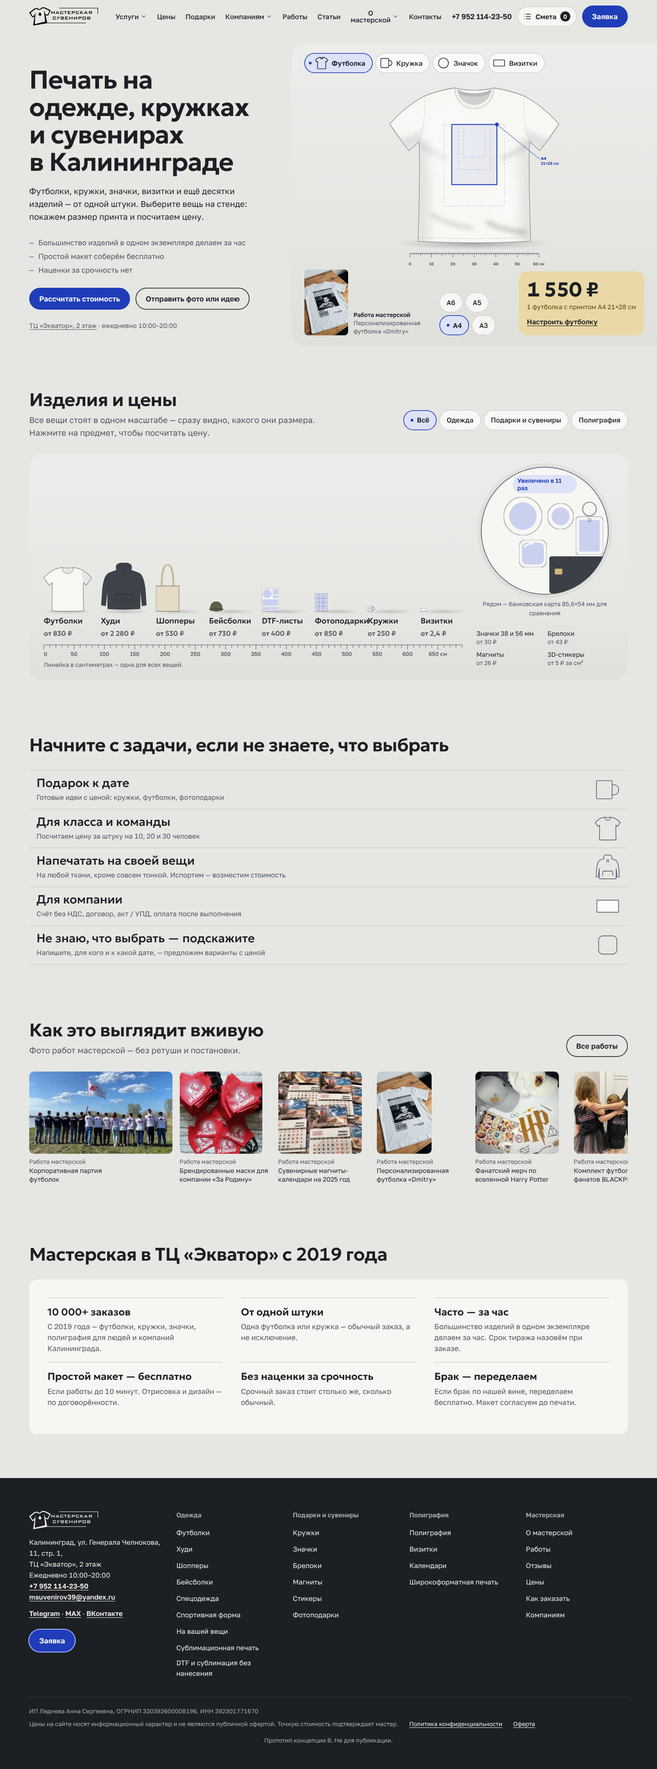
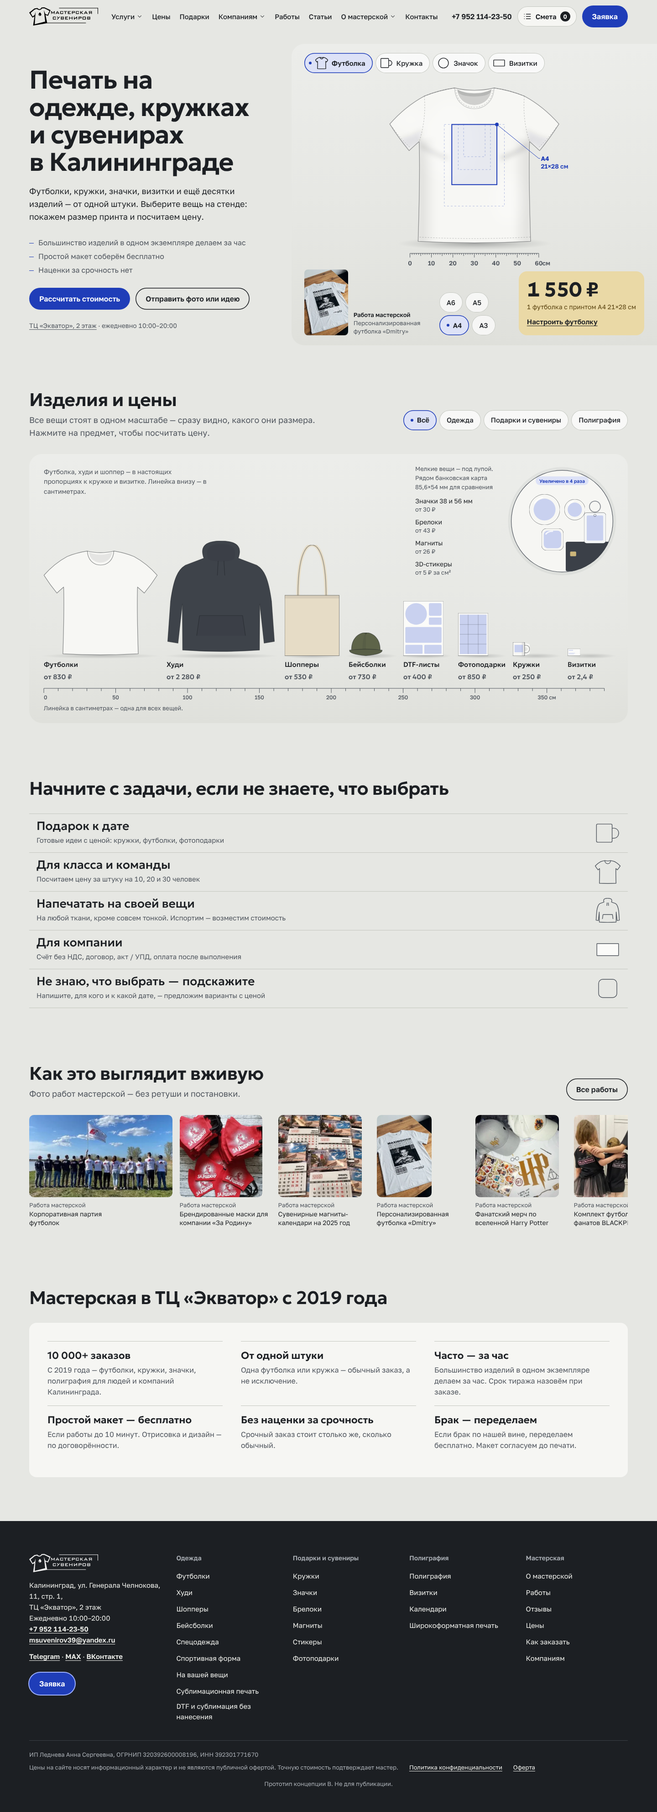
Прототип концепции B готов (до независимой проверки)
Claude-Session: https://claude.ai/code/session_011aCLNCiHhKEuiwSHLS8JMG

diff --git a/concepts/concept-b-object-lab/prototype/index.html b/concepts/concept-b-object-lab/prototype/index.html
@@ -1,8 +1,6 @@
 <!doctype html>
 <html lang="ru"><head><meta charset="utf-8"><meta name="viewport" content="width=device-width, initial-scale=1">
 <title>Печать на одежде, кружках и сувенирах в Калининграде — Мастерская сувениров</title><meta name="description" content="Печать на футболках, кружках, значках и полиграфии от 1 штуки. ТЦ «Экватор», ежедневно 10:00–20:00."><meta name="robots" content="noindex">
-<link rel="preload" href="fonts/golos-text-cyrillic-wght-normal.woff2" as="font" type="font/woff2" crossorigin>
-<link rel="preload" href="fonts/geologica-cyrillic-wght-normal.woff2" as="font" type="font/woff2" crossorigin>
 <link rel="stylesheet" href="styles.css"></head>
 <body>
 <a class="skip" href="#main">К содержимому</a>
@@ -42,7 +40,7 @@
 <section class="hero"><div class="wrap hero-grid">
   <div class="hero-text">
     <h1>Печать на одежде, кружках и сувенирах в Калининграде</h1>
-    <p class="lead">Футболки, кружки, значки, визитки и ещё десятки изделий — от одной штуки. Выберите вещь на стенде: покажем размер принта и посчитаем цену.</p>
+    <p class="lead">Футболки, кружки, значки, визитки и ещё десятки изделий — от одной штуки.<span class="m-hide"> Выберите вещь на стенде: покажем размер принта и посчитаем цену.</span></p>
     <ul class="hero-facts"><li>Большинство изделий в одном экземпляре делаем за час</li><li>Простой макет соберём бесплатно</li><li>Наценки за срочность нет</li></ul>
     <div class="hero-actions"><a class="btn btn-main hero-cta" id="heroCta" href="futbolki.html#calc">Рассчитать стоимость</a><button class="btn btn-line" type="button" data-order>Отправить фото или идею</button></div>
     <p class="hero-where"><a href="#contacts">ТЦ «Экватор», 2 этаж</a> · ежедневно 10:00–20:00</p>
@@ -74,6 +72,7 @@
       <button class="pill" type="button" data-group="all" aria-pressed="true">Всё</button><button class="pill" type="button" data-group="odezhda" aria-pressed="false">Одежда</button>
       <button class="pill" type="button" data-group="gifts" aria-pressed="false">Подарки и сувениры</button><button class="pill" type="button" data-group="poly" aria-pressed="false">Полиграфия</button></div></div>
   <div class="rk">
+    <p class="rk-caption">Футболка, худи и шоппер — в настоящих пропорциях к кружке и визитке. Линейка внизу — в сантиметрах.</p>
     <div class="rk-body">
       <div class="rk-scroll">
         <div class="rk-row" id="rkRow"><a class="rk-item" href="futbolki.html" data-model="tee" data-w="790" data-h="738" data-col="#F7F7F4" data-g="odezhda"><span class="rk-stage"><span class="rk-pic"></span></span><span class="rk-name">Футболки</span><span class="rk-from" data-from="textile/tshirt-unisex"></span></a><a class="rk-item" href="#" data-proto data-model="hoodie" data-w="760" data-h="800" data-col="#3E434A" data-g="odezhda"><span class="rk-stage"><span class="rk-pic"></span></span><span class="rk-name">Худи</span><span class="rk-from" data-from="textile/hoodie"></span></a><a class="rk-item" href="#" data-proto data-model="shopper" data-w="380" data-h="770" data-col="#E6DCC6" data-g="odezhda"><span class="rk-stage"><span class="rk-pic"></span></span><span class="rk-name">Шопперы</span><span class="rk-from" data-from="textile/shopper"></span></a><a class="rk-item" href="#" data-proto data-model="cap" data-w="240" data-h="160" data-col="#5E6449" data-g="odezhda"><span class="rk-stage"><span class="rk-pic"></span></span><span class="rk-name">Бейсболки</span><span class="rk-from" data-from="textile/cap"></span></a><a class="rk-item" href="#" data-proto data-model="sheet" data-w="280" data-h="380" data-col="#FBFBF9" data-g="odezhda"><span class="rk-stage"><span class="rk-pic"></span></span><span class="rk-name">DTF-листы</span><span class="rk-from" data-from="transfers/dtf-sheet"></span></a><a class="rk-item" href="#" data-proto data-model="puzzle" data-w="210" data-h="297" data-col="#F7F7F4" data-g="gifts"><span class="rk-stage"><span class="rk-pic"></span></span><span class="rk-name">Фотоподарки</span><span class="rk-from" data-from="gifts/puzzle-a4"></span></a><a class="rk-item" href="#" data-proto data-model="mug" data-w="118" data-h="95" data-col="#F7F7F4" data-g="gifts"><span class="rk-stage"><span class="rk-pic"></span></span><span class="rk-name">Кружки</span><span class="rk-from" data-from="mugs/mug"></span></a><a class="rk-item" href="#" data-proto data-model="card" data-w="90" data-h="50" data-col="#FBFBF9" data-g="poly"><span class="rk-stage"><span class="rk-pic"></span></span><span class="rk-name">Визитки</span><span class="rk-from" data-from="cards/business-cards"></span></a></div>
@@ -85,16 +84,16 @@
           <svg class="card" viewBox="0 0 85.6 54" aria-hidden="true"><rect class="m-card" width="85.6" height="54" rx="3.2"/><rect x="8" y="18" width="11" height="8.5" rx="1.5" class="m-card-chip"/></svg>
           <a class="loupe-item" data-g="gifts" href="#" data-proto style="left:50px;top:66px;width:84px;height:84px" data-model="badge56" data-col="#F7F7F4" aria-label="Значки 56 мм"></a>
           <a class="loupe-item" data-g="gifts" href="#" data-proto style="left:146px;top:80px;width:57px;height:57px" data-model="badge38" data-col="#F7F7F4" aria-label="Значки 38 мм"></a>
-          <a class="loupe-item" data-g="gifts" href="#" data-proto style="left:208px;top:76px;width:60px;height:117px" data-model="keychain" data-col="#F3F5F6" aria-label="Брелоки 40×56 мм"></a>
+          <a class="loupe-item" data-g="gifts" href="#" data-proto style="left:200px;top:84px;width:60px;height:117px" data-model="keychain" data-col="#F3F5F6" aria-label="Брелоки 40×56 мм"></a>
           <a class="loupe-item" data-g="gifts" href="#" data-proto style="left:84px;top:160px;width:60px;height:60px" data-model="sticker" data-col="#F7F7F4" aria-label="3D-стикеры"></a>
         </div>
-        <p class="loupe-cap">Рядом — банковская карта 85,6×54 мм для сравнения</p>
+        <div class="loupe-side"><p class="loupe-cap" style="margin:0">Мелкие вещи — под лупой. Рядом банковская карта 85,6×54 мм для сравнения</p>
         <ul class="loupe-list">
           <li><a href="#" data-proto>Значки 38 и 56 мм<span data-from="badges/badge-roll"></span></a></li>
           <li><a href="#" data-proto>Брелоки<span data-from="keychains/keychain-acrylic"></span></a></li>
           <li><a href="#" data-proto>Магниты<span data-from="magnets/magnet-vinyl"></span></a></li>
           <li><a href="#" data-proto>3D-стикеры<span data-from="stickers/sticker-3d"></span></a></li>
-        </ul>
+        </ul></div>
       </div>
     </div>
   </div>

diff --git a/concepts/concept-b-object-lab/prototype/app.js b/concepts/concept-b-object-lab/prototype/app.js
@@ -222,8 +222,8 @@
         <p class="muted" style="margin-top:16px">Что дальше:</p>
         <ol><li>Мастер посмотрит заявку и свяжется с вами: ${esc(via === 'Звонок' ? 'позвонит' : 'напишет в ' + via)}.</li>
         <li>Согласуем макет до печати — без согласования не печатаем.</li>
-        <li>Заберёте заказ в ТЦ «Экватор», 2 этаж. Работаем ежедневно, 10:00–20:00.</li></ol>
-        <p class="small muted">Если нужно быстрее — позвоните: <a href="tel:+79521142350">+7 952 114-23-50</a>.</p>
+        <li>Заберёте заказ в ТЦ «Экватор», 2 этаж. Работаем ежедневно, <span class="nb">10:00–20:00</span>.</li></ol>
+        <p class="small muted">Если нужно быстрее — позвоните: <a class="nb" href="tel:+79521142350">+7 952 114-23-50</a>.</p>
         <button class="btn btn-main" type="button" data-close-form2>Готово</button>`;
       $('#orderForm').hidden = true; done.hidden = false;
       $$('[data-close-form2]', done).forEach((b) => b.addEventListener('click', () => dl.close()));
@@ -264,9 +264,9 @@
     for (let mm = 0, i = 0; x0 + mm <= x1 + 0.01; mm += 10, i++) {
       const big = i % every === 0, mid = i % 5 === 0;
       s += `<line x1="${x0 + mm}" y1="${y}" x2="${x0 + mm}" y2="${y + (big ? tick * 1.6 : mid ? tick : tick * 0.55)}"/>`;
-      if (big) s += `<text x="${x0 + mm}" y="${y + tick * 1.6 + (opt.fsu || 20)}" text-anchor="middle">${i}${x0 + mm + 10 * every > x1 ? ' см' : ''}</text>`;
+      if (big) s += `<text x="${x0 + mm}" y="${y + tick * 1.6 + (opt.fsu || 20)}" text-anchor="middle">${i}</text>`;
     }
-    return s + '</g>';
+    return s + `<text x="${x1 + tick * 1.4}" y="${y + tick * 1.6 + (opt.fsu || 20)}" text-anchor="start">см</text></g>`;
   }
   // Полный стенд: state = {view, color, own, prints:[{place, fmt}], active, qty, file}
   function teeStandSVG(st, opts = {}) {
@@ -317,8 +317,9 @@
     const r = teeStandSVG(st, { noLabel: true, noRuler: true, ghosts: false });
     return `<svg class="stand-svg ${r.cls}" style="${r.style}" viewBox="-420 -30 840 780" aria-hidden="true" focusable="false">${r.inner}</svg>`;
   }
-  function fitText(svg, vbW) {
-    const k = svg.getBoundingClientRect().width / vbW || 0.6;
+  function fitText(svg) {
+    const vb = svg.viewBox.baseVal; const r = svg.getBoundingClientRect();
+    const k = Math.min(r.width / vb.width, r.height / vb.height) || 0.6;
     svg.style.setProperty('--fs', (13.5 / k).toFixed(1) + 'px');
     svg.style.setProperty('--fs2', (15 / k).toFixed(1) + 'px');
     return k;
@@ -385,11 +386,11 @@
     const items = $$('.rk-item', row);
     items.forEach((a) => { const key = a.dataset.model; $('.rk-pic', a).innerHTML = modelSVG(key, { col: a.dataset.col, pad: 0 }); });
     $$('.loupe [data-model]').forEach((el) => { el.innerHTML = modelSVG(el.dataset.model, { col: el.dataset.col, pad: 0 }); });
-    const MIN = 96, GAP = 20;
+    const MIN = 100, GAP = 20;
     function layout() {
       const narrow = window.innerWidth <= 760;
       const W = row.clientWidth - (narrow ? 0 : 0);
-      let k = narrow ? 0.26 : 0.4;
+      let k = narrow ? 0.2 : 0.4;
       if (!narrow) {
         for (let it = 0; it < 30; it++) { // подбираем масштаб, чтобы ряд занял ширину
           const sum = items.reduce((s, a) => s + Math.max(+a.dataset.w * k, MIN), 0) + GAP * (items.length - 1);
@@ -408,7 +409,7 @@
       let s = ''; for (let i = 0; i <= n; i++) { const x = i * tenCm; s += `<line x1="${x}" y1="0" x2="${x}" y2="${i % 5 === 0 ? 10 : 6}"/>` + (i % 5 === 0 ? `<text x="${x}" y="24" text-anchor="${i ? 'middle' : 'start'}">${i * 10}${i === Math.floor(n / 5) * 5 ? ' см' : ''}</text>` : ''); }
       ruler.setAttribute('width', row.scrollWidth); ruler.innerHTML = `<line x1="0" y1="0" x2="${n * tenCm}" y2="0"/>` + s;
       $('#rkScale').textContent = 'Линейка в сантиметрах — одна для всех вещей.';
-      const lx = $('#loupeX'); if (lx) lx.textContent = 'Увеличено в ' + Math.round(1.5 / k) + ' раз';
+      const lx = $('#loupeX'); const b56 = $('.loupe-item[data-model="badge56"]'); if (lx && b56) { const z = b56.getBoundingClientRect().width / 56; const n = Math.round(z / k); lx.textContent = 'Увеличено в ' + n + ' ' + plural(n, 'раз', 'раза', 'раз'); }
     }
     layout(); window.addEventListener('resize', layout);
     $$('[data-group]').forEach((b) => b.addEventListener('click', () => {
@@ -485,8 +486,8 @@
       $('#addPrint').hidden = st.prints.length >= 4;
       $$('.print-row', box).forEach((row) => {
         const i = +row.dataset.i;
-        $$('[data-fmt]', row).forEach((b) => b.addEventListener('click', () => { st.prints[i].fmt = b.dataset.fmt; st.active = i; ensureView(i); update(); }));
-        $('.place-sel', row).addEventListener('change', (e) => { st.prints[i].place = e.target.value; st.active = i; ensureView(i); update(); });
+        $$('[data-fmt]', row).forEach((b) => b.addEventListener('click', () => { st.prints[i].fmt = b.dataset.fmt; st.active = i; ensureView(i); renderPrints(); update(); const nb = $(`.print-row[data-i="${i}"] [data-fmt="${b.dataset.fmt}"]`); nb && nb.focus(); }));
+        $('.place-sel', row).addEventListener('change', (e) => { st.prints[i].place = e.target.value; st.active = i; ensureView(i); renderPrints(); update(); });
         row.addEventListener('focusin', () => { if (st.active !== i) { st.active = i; $$('.print-row', box).forEach((r) => r.classList.toggle('act', +r.dataset.i === i)); ensureView(i, true); } });
         const rm = $('[data-rm]', row); rm && rm.addEventListener('click', () => { st.prints.splice(i, 1); st.active = Math.min(st.active, st.prints.length - 1); renderPrints(); update(); $('#addPrint').focus(); });
       });

diff --git a/concepts/concept-b-object-lab/prototype/styles.css b/concepts/concept-b-object-lab/prototype/styles.css
@@ -92,12 +92,12 @@ p { margin: 0 0 12px; }
 /* ---------- Шапка ---------- */
 .hdr { position: sticky; top: 0; z-index: 40; background: var(--stand); transition: box-shadow .2s, transform .25s var(--ease); }
 .hdr.scrolled { box-shadow: 0 1px 0 var(--line); }
-.hdr-in { display: flex; align-items: center; gap: 28px; height: 72px; }
+.hdr-in { display: flex; align-items: center; gap: 20px; height: 72px; }
 .logo { display: block; color: var(--ink); flex: none; }
 .logo img { height: 40px; width: auto; }
 .nav { display: flex; align-items: center; gap: 2px; margin: 0; padding: 0; list-style: none; flex: 1; min-width: 0; }
 .nav > li { position: relative; }
-.nav a.top, .nav button.top { display: inline-flex; align-items: center; gap: 4px; height: 44px; padding: 0 10px; border: 0; background: none;
+.nav a.top, .nav button.top { white-space: nowrap; display: inline-flex; align-items: center; gap: 4px; height: 44px; padding: 0 10px; border: 0; background: none;
   color: var(--ink); text-decoration: none; font: 500 15px/1 var(--text); border-radius: 999px; }
 .nav a.top:hover, .nav button.top:hover, .nav .open > button.top { background: rgba(28,31,35,.06); }
 .nav .caret { width: 14px; height: 14px; transition: transform .2s; }
@@ -594,3 +594,46 @@ fieldset.f-row { border: 0; padding: 0; margin: 0 0 16px; }
 .pult { margin-top: 4px; }
 @media (max-width: 1119px) { .p-head, .pstand, .pult-wrap { grid-column: 1; grid-row: auto; } .p-head { padding-bottom: 12px; } }
 @media (max-width: 760px) { .hstand { order: 2; } .p-head .lead { font-size: 16px; line-height: 24px; margin-top: 10px; } .p-facts { display: none; } .pstand-top .note { display: none; } }
+
+.nav a.top, .nav button.top { padding: 0 9px; }
+@media (max-width: 760px) { .m-hide { display: none; } .hsvg { height: clamp(170px, 22svh, 220px); } .htabs .pill { min-height: 48px; } .rk-groups { max-width: 100%; } }
+/* ценник на странице изделия: слева цена, справа кнопки */
+.ptag { width: 470px; display: grid; grid-template-columns: minmax(0, 1fr) 150px; gap: 0 16px; align-items: start; }
+.ptag > .price-xl, .ptag > .per, .ptag > .tag-break, .ptag > .tag-next { grid-column: 1; }
+.ptag .tag-btns { grid-column: 2; grid-row: 1 / span 4; grid-template-columns: 1fr; margin-top: 0; align-self: center; }
+@media (min-width: 1120px) { .pstand { top: 80px; height: calc(100vh - 96px); } }
+.pstand .evid { max-width: 240px; }
+@media (max-width: 1119px) { .ptag { width: auto; } }
+@media (max-width: 760px) {
+  .tsvg { height: clamp(210px, 30svh, 280px); }
+  .ptag { grid-template-columns: 1fr 1fr; gap: 0 8px; }
+  .ptag > .price-xl, .ptag > .per { grid-column: 1 / -1; }
+  .ptag .tag-btns { grid-column: 1 / -1; grid-row: auto; grid-template-columns: 1fr 1fr; margin-top: 10px; order: 0; }
+  .ptag > .tag-break, .ptag > .tag-next { grid-column: 1 / -1; }
+  .ptag > .tag-break { order: 5; } .ptag > .tag-next { order: 4; }
+}
+
+/* лупа парит над мелкими вещами (компьютер) */
+.loupe-c .tag-x { white-space: nowrap; }
+.rk-name { font-size: 15px; }
+@media (min-width: 1120px) {
+  .rk { padding-top: 190px; }
+  .loupe { position: absolute; top: 22px; right: 32px; width: auto; flex-direction: row-reverse; align-items: center; gap: 20px; }
+  .loupe-c { zoom: .8; }
+  .loupe-side { display: flex; flex-direction: column; gap: 8px; width: 190px; }
+  .loupe-list { grid-template-columns: 1fr; }
+  .loupe-cap { text-align: left; }
+  .rk-caption { position: absolute; top: 28px; left: 32px; max-width: 360px; }
+}
+.rk-caption { font-size: 14px; color: var(--ink-2); margin: 0 0 12px; }
+
+@media (max-width: 760px) {
+  .rk { padding: 18px var(--pad); }
+  .rk-scroll { margin: 0 calc(-1 * var(--pad)); padding: 0 var(--pad) 8px; }
+  .rk-groups { padding: 0; }
+  .loupe { padding: 0; }
+  .tasks a > span:nth-child(2), .tasks button > span:nth-child(2) { display: none; }
+}
+
+[hidden] { display: none !important; }
+@media (max-width: 760px) { .toast { bottom: auto; top: 64px; transform: translate(-50%, -200%); } .toast.on { transform: translate(-50%, 0); } }

diff --git a/concepts/concept-b-object-lab/prototype/models.js b/concepts/concept-b-object-lab/prototype/models.js
@@ -59,8 +59,7 @@
       <path class="tee-shade" d="M -304,294 Q -276,268 -257,252 Q -246,215 -238,190 Q -300,232 -352,236 Z"/>
       <path class="tee-fold" d="M 244,272 C 204,298 166,316 128,328"/>
       <path class="tee-fold" d="M -244,272 C -204,298 -166,316 -128,328"/>
-      <path class="tee-fold" d="M 60,628 C 120,656 180,670 240,676" style="stroke-width:7;opacity:.55"/>
-      <path class="tee-fold" d="M -200,590 C -140,626 -80,646 -10,654" style="stroke-width:6;opacity:.4"/>
+
 `;
 
   function teeFront() {
@@ -149,7 +148,7 @@
   /* ---------- Простые модели для «Раскладки» (в мм, стоят на горизонте y = h) ---------- */
   const fill = 'class="m-fill"', edge = 'class="m-edge"', sh = 'class="m-sh"';
   const MODELS = {
-    tee: { w: 790, h: 732, ox: 395, oy: 0, svg: () => `<g transform="translate(395,6)"><path ${fill} d="${BODY}"/><path ${sh} d="M -80,9 C -56,22 -30,27 0,27 C 30,27 56,22 80,9 C 77,50 46,80 0,82 C -46,80 -77,50 -80,9 Z"/><path ${sh} d="${SLEEVE_R}" opacity=".35"/><path ${edge} d="${BODY}"/><path ${edge} d="M -92,2 C -90,62 -50,99 0,99 C 50,99 90,62 92,2"/></g>` },
+    tee: { w: 790, h: 732, ox: 395, oy: 0, svg: () => `<g transform="translate(395,6)"><path ${fill} d="${BODY}"/><path ${sh} d="M -80,9 C -56,22 -30,27 0,27 C 30,27 56,22 80,9 C 77,50 46,80 0,82 C -46,80 -77,50 -80,9 Z"/><path ${edge} d="${BODY}"/><path ${edge} d="M -92,2 C -90,62 -50,99 0,99 C 50,99 90,62 92,2"/></g>` },
     hoodie: { w: 760, h: 800, svg: () => `<g transform="translate(380,0)">
         <path ${fill} d="M -120,120 C -150,40 -110,0 0,0 C 110,0 150,40 120,120 L 250,170 C 300,200 330,260 352,420 L 372,700 L 300,712 L 270,440 L 268,760 Q 0,780 -268,760 L -270,440 L -300,712 L -372,700 L -352,420 C -330,260 -300,200 -250,170 Z"/>
         <path ${sh} d="M -92,124 C -110,50 -80,22 0,22 C 80,22 110,50 92,124 C 60,150 -60,150 -92,124 Z"/>

diff --git a/concepts/concept-b-object-lab/prototype/futbolki.html b/concepts/concept-b-object-lab/prototype/futbolki.html
@@ -1,8 +1,6 @@
 <!doctype html>
 <html lang="ru"><head><meta charset="utf-8"><meta name="viewport" content="width=device-width, initial-scale=1">
 <title>Печать на футболках в Калининграде от 1 шт — Мастерская сувениров</title><meta name="description" content="Печать на футболках от 1 штуки: примерьте размер принта и посчитайте цену. ТЦ «Экватор», ежедневно 10:00–20:00."><meta name="robots" content="noindex">
-<link rel="preload" href="fonts/golos-text-cyrillic-wght-normal.woff2" as="font" type="font/woff2" crossorigin>
-<link rel="preload" href="fonts/geologica-cyrillic-wght-normal.woff2" as="font" type="font/woff2" crossorigin>
 <link rel="stylesheet" href="styles.css"></head>
 <body>
 <a class="skip" href="#main">К содержимому</a>
@@ -58,9 +56,9 @@
       <div class="tag ptag" id="tag" aria-live="polite">
         <span class="price-xl" id="tTotal">—</span>
         <div class="per" id="tPer"></div>
-        <details class="tag-break"><summary>Из чего цена</summary><ul id="tBreak"></ul><div class="tag-notes" id="tNotes"></div></details>
+        <div class="tag-btns"><button class="btn btn-main" type="button" id="bOrder">Заказать</button><button class="btn btn-line" type="button" id="bAdd">В смету</button></div>
         <p class="tag-next" id="tNext" hidden></p>
-        <div class="tag-btns"><button class="btn btn-line" type="button" id="bAdd">В смету</button><button class="btn btn-main" type="button" id="bOrder">Заказать</button></div>
+        <details class="tag-break"><summary>Из чего цена</summary><ul id="tBreak"></ul><div class="tag-notes" id="tNotes"></div></details>
       </div>
     </div>
   </div>

diff --git a/concepts/concept-b-object-lab/CONCEPT.md b/concepts/concept-b-object-lab/CONCEPT.md
@@ -822,3 +822,17 @@
 2. Когда возможна съёмка хотя бы серий 1–3, 8, 10 из списка 6.5?
 3. Размеры календарей, фотоподарков и брелоков — для точных моделей.
 4. Можно ли на странице «Компаниям» дать примерку логотипа на набор (без цен)?
+
+---
+
+## Изменения при прототипировании (13.11.2026)
+
+Прототип: `concepts/concept-b-object-lab/prototype/` (`index.html`, `futbolki.html`, `styles.css`, `models.js`, `app.js`, шрифты в `fonts/` с файлами OFL, снимки в `screenshots/`).
+
+1. **Главное действие на странице изделия — «Заказать»** (кобальт), «В смету» — вторая кнопка. Кнопки стоят сразу под ценой на ценнике стенда: так на телефоне они попадают на первый экран. На компьютере ценник разбит на две колонки: слева цена, справа кнопки.
+2. **«Раскладка» на компьютере: лупа висит над мелкими вещами**, а не стоит отдельной колонкой. В отдельной колонке масштаб ряда получался таким мелким, что одежда теряла смысл. Подпись «Увеличено в N раз» считается от настоящего масштаба ряда. На телефоне ряд прокручивается вбок внутри плоскости (страница вбок не прокручивается), лупа стоит под ним.
+3. **Места печати.** У каждого принта есть выбор места: грудь по центру, грудь слева, спина по центру, спина под воротом, левый рукав, правый рукав. Если принт крупнее А6 стоит на рукаве, показывается пометка «точное место согласуем на макете». Конструктор это не заменяет: принт стоит только в стандартных местах.
+4. **11 цветов на стенде, 3 варианта в прайсе.** Белый и чёрный считаются по своей цене, остальные 9 — как «Другой цвет (от 10 шт)». Название цвета попадает в смету.
+5. **Визуализация `img/products/tshirts` на странице футболок не используется.** На ней есть цвета, которых нет в списке владельца (бежевый, светло-голубой), — это ввело бы в заблуждение. Блок «Изделие» сделан текстом и списком цветов.
+6. **Без скриптов прототип показывает текст и структуру, но не перекрашивает футболку.** Переключение на CSS-радиокнопках (раздел 10) в прототип не вошло, модели рисует скрипт. В production модель футболки должна быть в HTML.
+7. Моноширинного шрифта нет, как и задумано; знак ₽ подгружается из подмножества latin-ext (около 20 КБ, только при наличии ₽ на странице).
